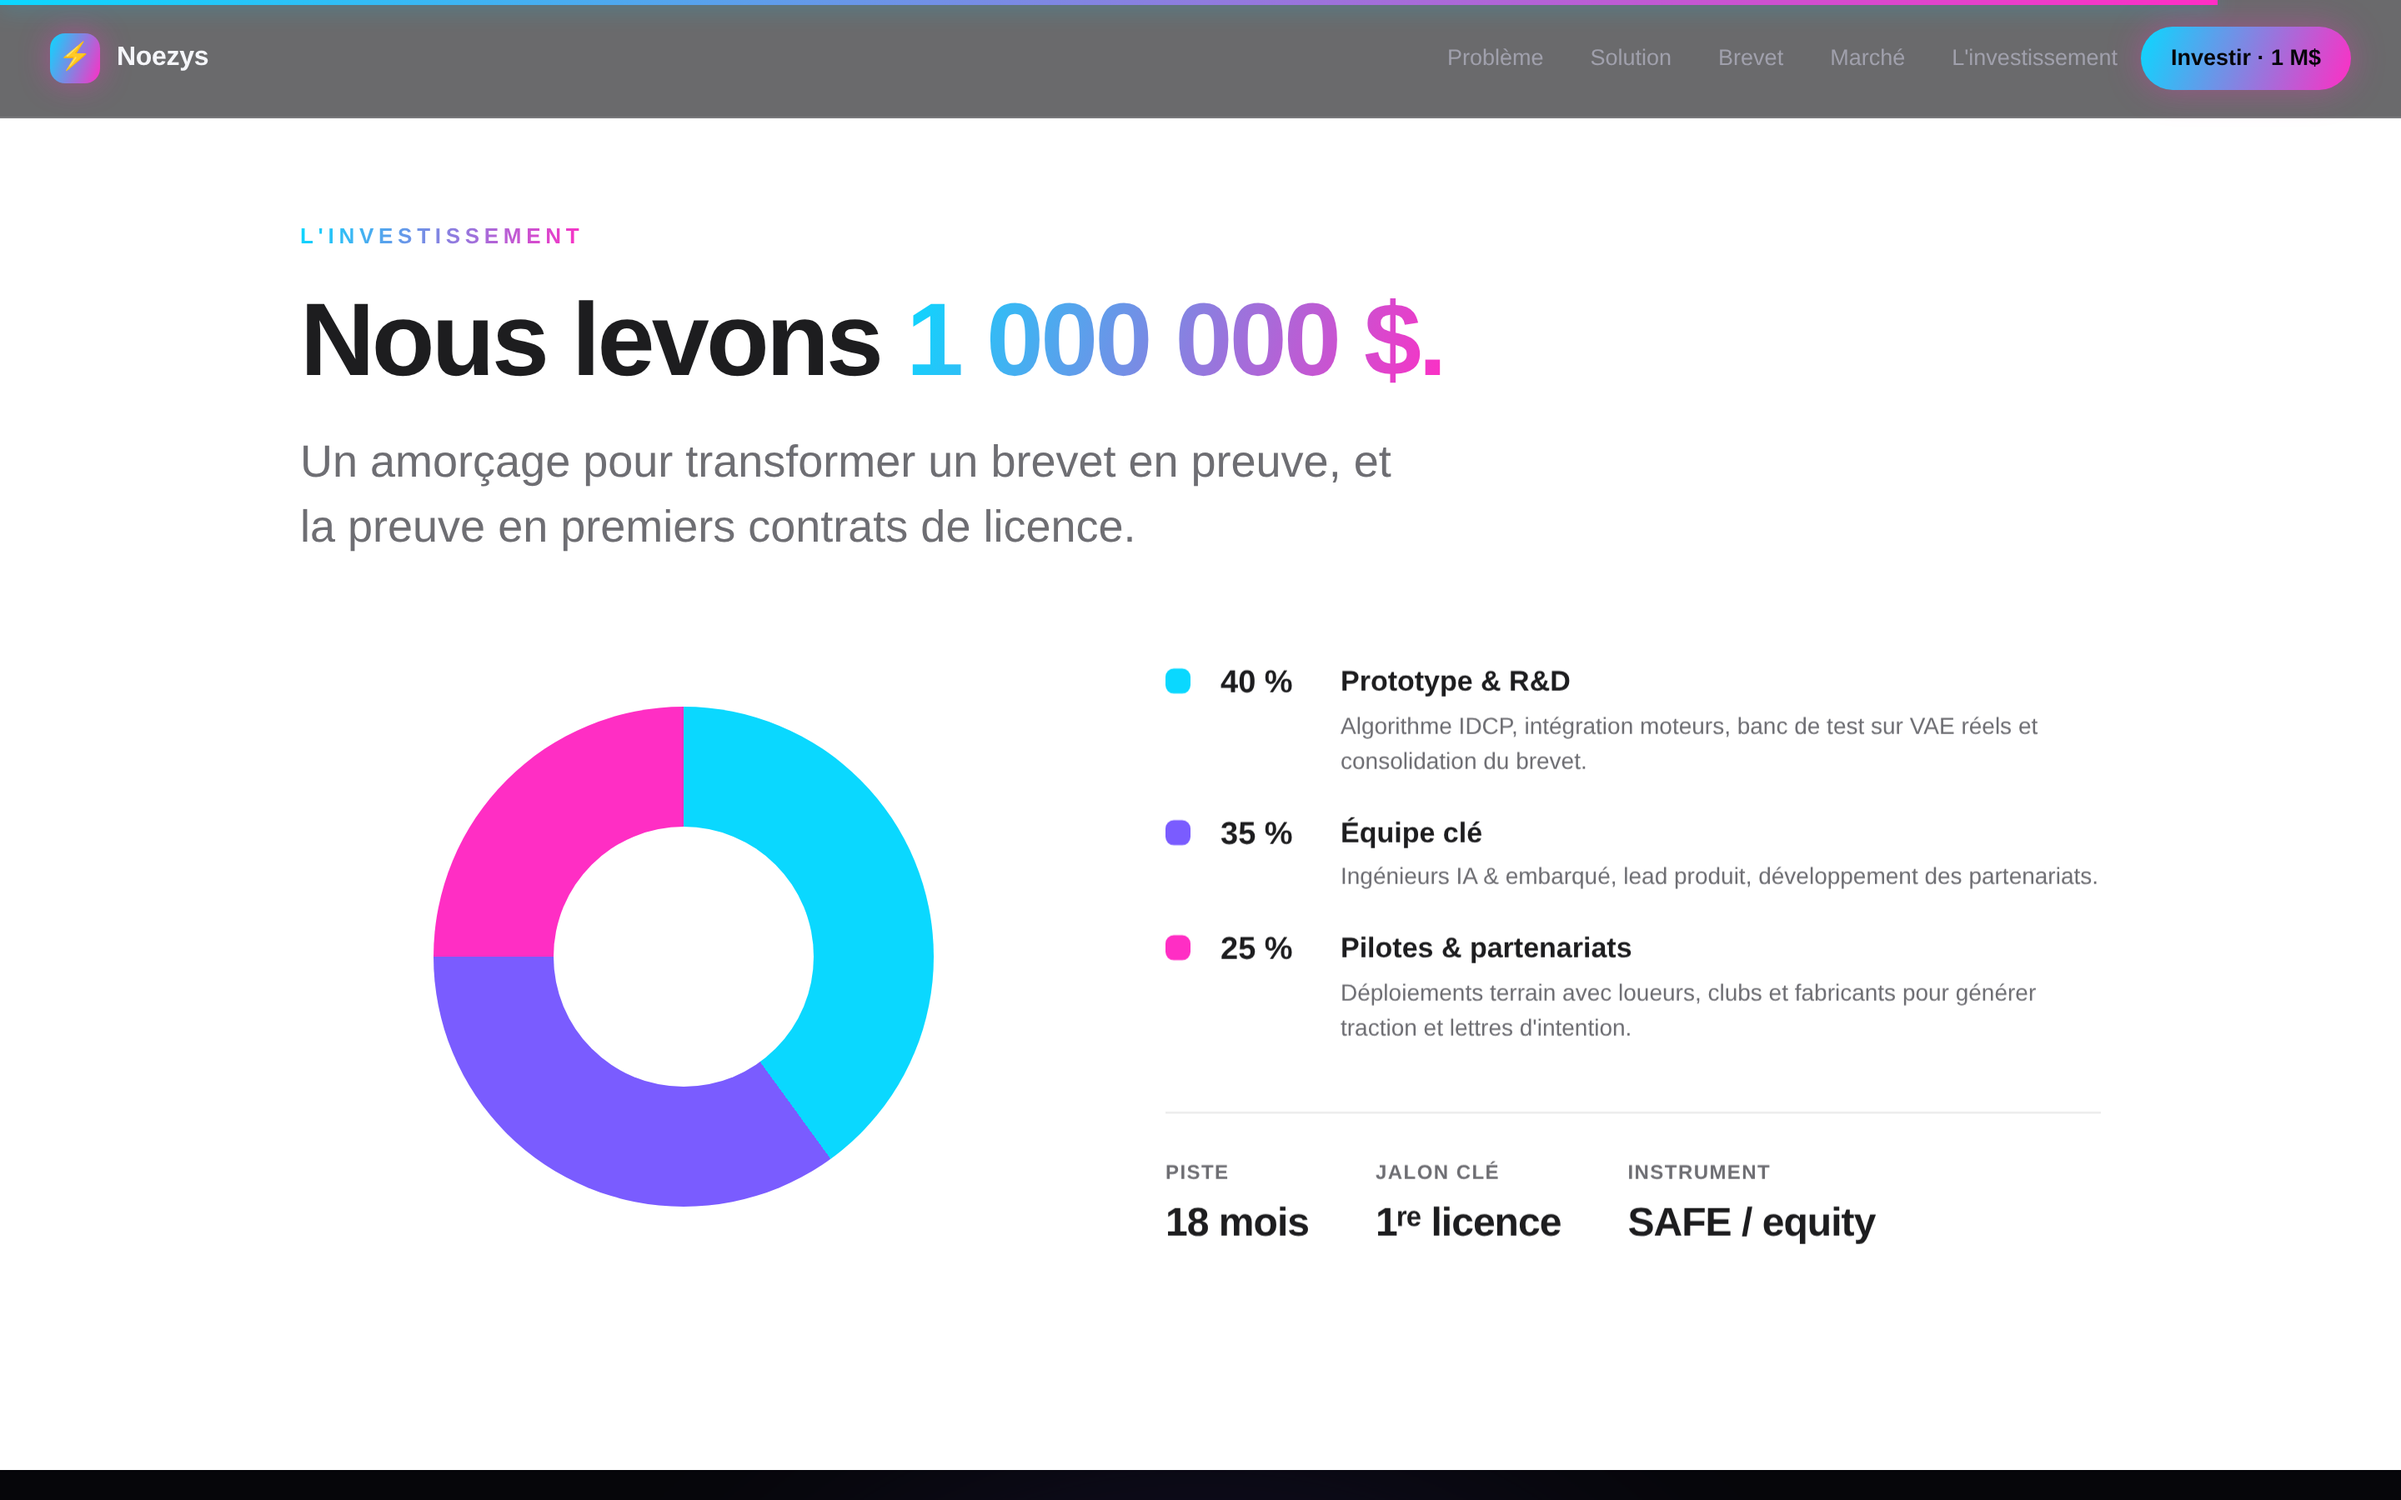
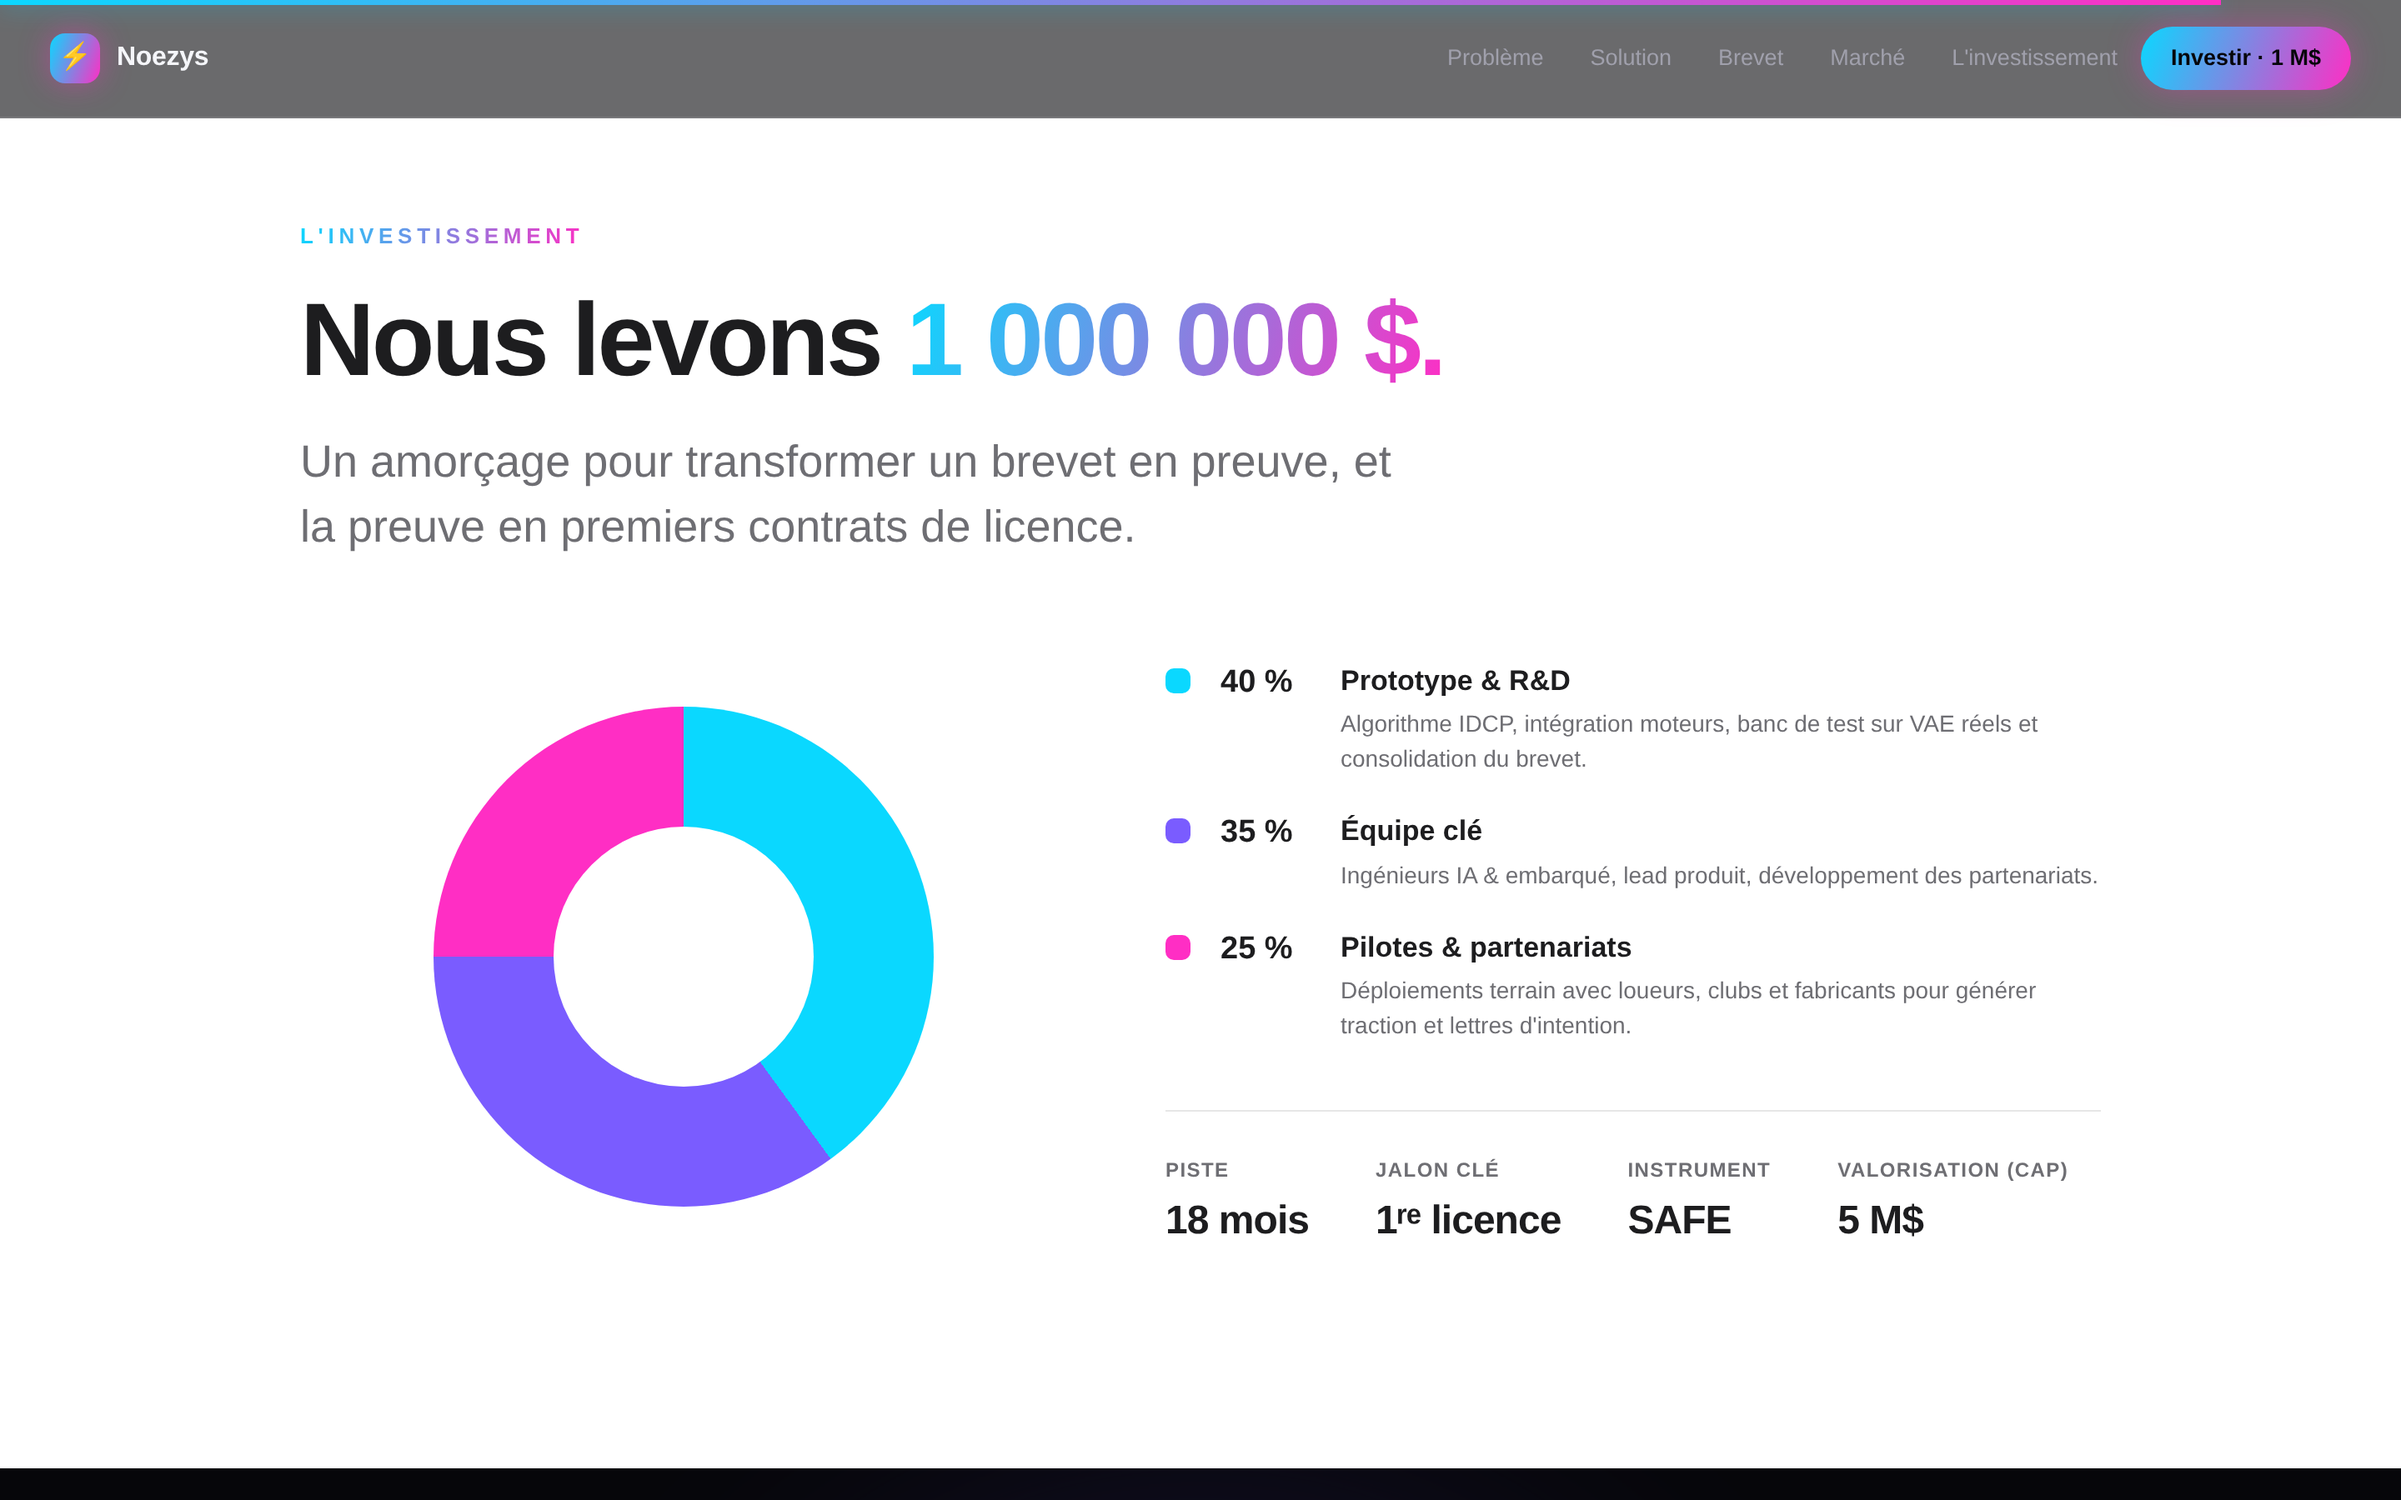
feat: dossier investisseurs — simulation cohérente (noms d'emprunt)
- Équipe nommée crédible (CEO, CTO, Head of Partnerships, conseil PI)
  + conseil consultatif fictif
- Statut brevet clarifié : demande prioritaire déposée, PCT à T0+6
- Valorisation (cap) 5 M$ ajoutée à l'investissement
- Contact professionnel (invest@noezys.io)
- Disclaimer : éléments fournis en simulation à remplacer/valider
- Captures PNG mises à jour

diff --git a/e-peloton-pitch.html b/e-peloton-pitch.html
@@ -293,7 +293,7 @@ a{color:inherit;text-decoration:none}
       <div class="stat"><div class="n grad-txt"><span data-count="120" data-suffix=" Md$">0</span></div><div class="l">Marché mondial du VAE en 2030</div></div>
       <div class="stat"><div class="n"><span data-count="40" data-suffix=" M">0</span></div><div class="l">VAE vendus par an dans le monde</div></div>
       <div class="stat"><div class="n"><span data-count="13" data-suffix=" %">0</span></div><div class="l">Croissance annuelle (TCAC)</div></div>
-      <div class="stat"><div class="n grad-txt"><span data-count="1" data-suffix="">0</span></div><div class="l">Brevet fondateur à protéger</div></div>
+      <div class="stat"><div class="n grad-txt"><span data-count="1" data-suffix="">0</span></div><div class="l">Brevet fondateur déposé</div></div>
     </div>
   </div>
   <div class="scrollhint"></div>
@@ -382,6 +382,7 @@ a{color:inherit;text-decoration:none}
       <span class="eyebrow">L'actif central</span>
       <h2 class="h2">Le passage de l'intelligence <span class="grad-txt">individuelle à collective.</span></h2>
       <p class="lead">Régler l'assistance d'un vélo existe déjà. <b style="color:#fff;font-weight:600">Piloter l'énergie d'un groupe entier comme un organisme</b> est notre territoire — et c'est lui que nous protégeons. La PI est le moteur de valeur de Noezys.</p>
+      <span class="reveal" data-d="2" style="display:inline-flex;align-items:center;gap:9px;margin-top:24px;padding:9px 16px;border:1px solid var(--line);border-radius:999px;font-size:13px;font-weight:600;color:var(--txt-l2);background:rgba(255,255,255,.03)"><span style="width:7px;height:7px;border-radius:50%;background:var(--cyan);box-shadow:0 0 10px var(--cyan)"></span>Demande de brevet prioritaire déposée (FR) · extension PCT planifiée à T0+6</span>
     </div>
     <div class="patent">
       <div>
@@ -501,15 +502,18 @@ a{color:inherit;text-decoration:none}
   <div class="wrap">
     <div class="shead reveal">
       <span class="eyebrow">L'équipe</span>
-      <h2 class="h2">Noezys — bâtisseurs de produits <span class="grad-txt">utiles et durables.</span></h2>
-      <p class="lead">Basés à Malte, nous concevons des produits numériques intelligents qui retirent la friction du quotidien. <span class="muted">(Profils à compléter / finaliser avant diffusion.)</span></p>
+      <h2 class="h2">À l'intersection de l'IA, du cycle <span class="grad-txt">et de la propriété intellectuelle.</span></h2>
+      <p class="lead">Noezys (Malte) réunit ingénierie embarquée, science de la donnée et stratégie de brevet pour transformer une invention en standard de marché.</p>
     </div>
     <div class="team">
-      <div class="member reveal" data-d="1"><div class="ava">PM</div><h4>Philippe Maréchal</h4><div class="role">Fondateur &amp; CEO</div><p>Vision produit & stratégie. Initiateur du concept E-Peloton Sync AI.</p></div>
-      <div class="member open reveal" data-d="2"><div class="ava">+</div><h4>Lead IA / Embedded</h4><div class="role" style="color:var(--txt-l2)">À recruter</div><p>Algorithme de nivellement, intégration moteurs temps réel.</p></div>
-      <div class="member open reveal" data-d="3"><div class="ava">+</div><h4>Head of Partnerships</h4><div class="role" style="color:var(--txt-l2)">À recruter</div><p>Accords fabricants, loueurs et clubs ; pipeline de licences.</p></div>
-      <div class="member open reveal" data-d="4"><div class="ava">+</div><h4>Conseil PI</h4><div class="role" style="color:var(--txt-l2)">Partenaire</div><p>Stratégie brevet, dépôt PCT et défense du portefeuille.</p></div>
+      <div class="member reveal" data-d="1"><div class="ava">CL</div><h4>Camille Laurent</h4><div class="role">Co-fondatrice &amp; CEO</div><p>10 ans en produit mobilité &amp; IoT. Pilote vision, financement et partenariats.</p></div>
+      <div class="member reveal" data-d="2"><div class="ava">MR</div><h4>Mathéo Renaud</h4><div class="role">Co-fondateur &amp; CTO</div><p>IA embarquée et systèmes de motorisation. Architecte de l'algorithme IDCP.</p></div>
+      <div class="member reveal" data-d="3"><div class="ava">SM</div><h4>Sofia Marchetti</h4><div class="role">Head of Partnerships</div><p>15 ans dans l'industrie du cycle. Accords fabricants, loueurs et clubs.</p></div>
+      <div class="member reveal" data-d="4"><div class="ava">HV</div><h4>Dr. Henri Vasseur</h4><div class="role">Conseil en PI</div><p>Mandataire brevets européen. Stratégie de dépôt PCT et défense du portefeuille.</p></div>
     </div>
+    <p class="muted reveal" style="text-align:center;font-size:14px;margin-top:34px">
+      <b style="color:var(--txt-l);font-weight:600">Conseil consultatif</b> &nbsp;·&nbsp; Élise Fontaine — ex-directrice innovation, équipementier cycle &nbsp;·&nbsp; Karl Brenner — mobilité électrique, ex-fonds deeptech
+    </p>
   </div>
 </section>
 
@@ -534,7 +538,8 @@ a{color:inherit;text-decoration:none}
         <div class="ask-note">
           <div><div class="k">Piste</div><div class="v">18 mois</div></div>
           <div><div class="k">Jalon clé</div><div class="v">1ʳᵉ licence</div></div>
-          <div><div class="k">Instrument</div><div class="v">SAFE / equity</div></div>
+          <div><div class="k">Instrument</div><div class="v">SAFE</div></div>
+          <div><div class="k">Valorisation (cap)</div><div class="v">5 M$</div></div>
         </div>
       </div>
     </div>
@@ -550,7 +555,7 @@ a{color:inherit;text-decoration:none}
     <p class="lead reveal" data-d="2" style="margin-top:20px">Nous faisons du groupe une expérience fluide, partagée, accessible à tous les niveaux. Et nous détenons la brique qui rend cela possible.</p>
     <div class="contact reveal" data-d="3">
       <div class="grad-txt" style="font-weight:800">Discutons du tour d'amorçage.</div>
-      <a href="mailto:philippejl.marechal@gmail.com">philippejl.marechal@gmail.com</a>
+      <a href="mailto:invest@noezys.io">invest@noezys.io</a>
       <span class="muted" style="font-size:14px">Noezys · AI Innovation Lab · Malte</span>
     </div>
   </div>
@@ -558,7 +563,7 @@ a{color:inherit;text-decoration:none}
 
 <footer class="foot">
   <div>© 2026 <b style="color:#fff">Noezys</b> — E-Peloton Sync AI · Document d'investissement confidentiel</div>
-  <p class="disc">Ce document est fourni à titre d'information uniquement et ne constitue ni une offre de vente, ni une sollicitation d'investissement. Les chiffres de marché sont des estimations issues de sources publiques et doivent être validés en due diligence. Les projections sont par nature incertaines. Le statut du brevet et les profils d'équipe sont indicatifs et à finaliser.</p>
+  <p class="disc">Document illustratif. Les noms de l'équipe et des conseillers, le statut du brevet, la valorisation et les chiffres de marché sont fournis à titre de <b style="color:#7A7A86">simulation</b> et devront être remplacés par les données réelles, puis validés en due diligence avant toute diffusion. Ce document ne constitue ni une offre de vente, ni une sollicitation d'investissement.</p>
 </footer>
 
 <script>
